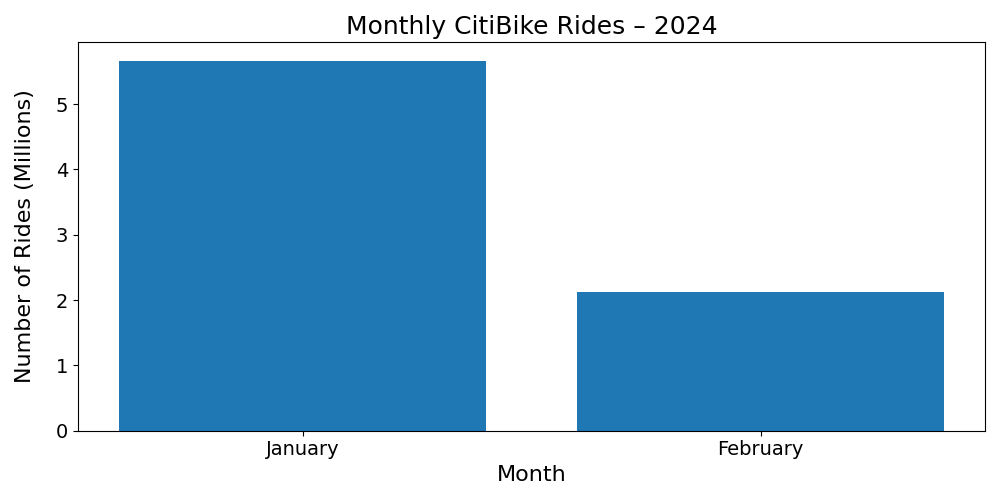
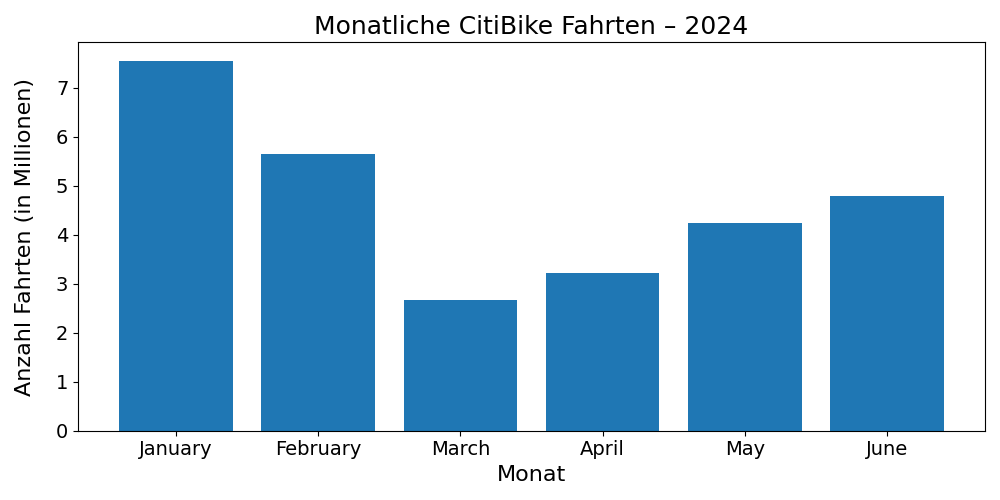
Update Monthly Ride Plot Labels

diff --git a/02_analysis/01_descriptive_statistics_rides.py b/02_analysis/01_descriptive_statistics_rides.py
@@ -56,9 +56,9 @@ df['num_rides_millions'] = df['num_rides'] / 1_000_000
 plt.figure(figsize=(10, 5))
 plt.bar(df['month_label'], df['num_rides_millions'], color="#1f77b4")
 
-plt.xlabel("Month", fontsize=16)
-plt.ylabel("Number of Rides (Millions)", fontsize=16, labelpad=15)
-plt.title("Monthly CitiBike Rides – 2024", fontsize=18)
+plt.xlabel("Monat", fontsize=16)
+plt.ylabel("Anzahl Fahrten (in Millionen)", fontsize=16, labelpad=15)
+plt.title("Monatliche CitiBike Fahrten – 2024", fontsize=18)
 
 plt.xticks(fontsize=14)
 plt.yticks(fontsize=14)
